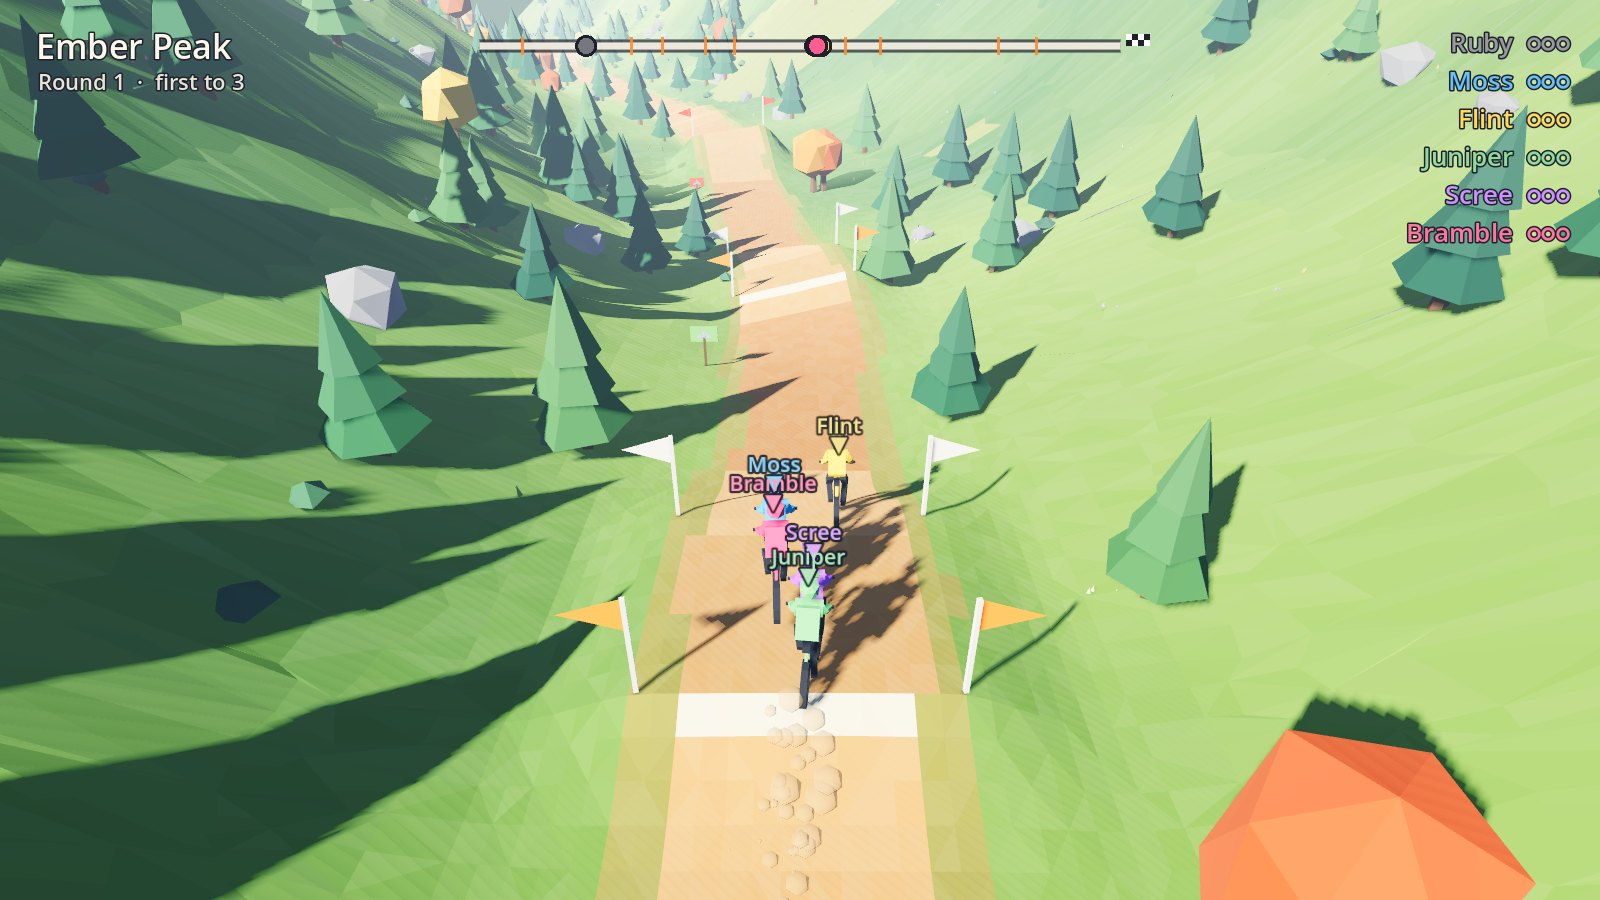
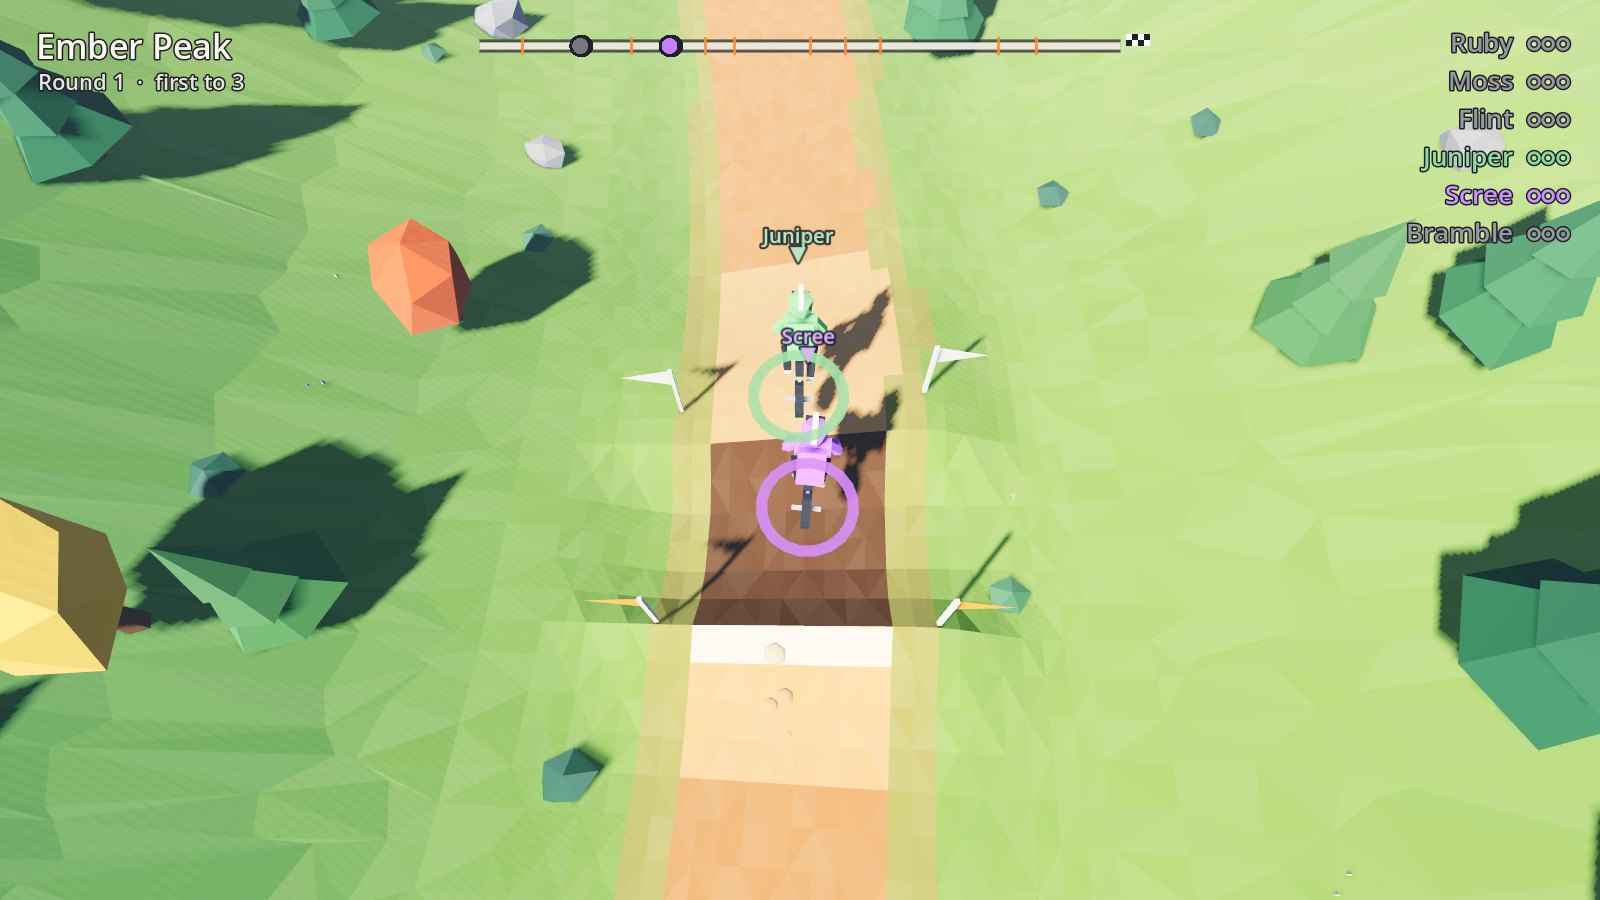
Make Downhill Rush a top-down BMX survival race
The shared camera now looks down from above and sits closer, so the
leader is central and stragglers drop off the bottom sooner. Riders are
BMX bikes with 20-inch wheels, riser bars, pegs and a standing rider,
and each rider has a ring in their colour on the ground that also
marks where they will land.

Claude-Session: https://claude.ai/code/session_01XKbriPGpWUjPCX5T7BApuq

diff --git a/downhill-rush/README.md b/downhill-rush/README.md
@@ -1,14 +1,15 @@
 # Downhill Rush
 
-A couch party game for GameNight: everyone rides the same procedurally
-generated mountain on one shared screen. The camera follows the leader and
-never waits. Fall behind, crash once too often or take the scenic route and
+A top-down BMX downhill survival race for GameNight: everyone rides the same
+procedurally generated mountain on one shared screen, seen from above. The
+camera follows the leader and never waits. Fall behind, crash once too often or take the scenic route and
 you drop off the bottom of the screen: you're out. Last rider standing, or
 first through the finish gate, takes the round. First to three rounds wins.
 
 Godot 4.5, GL Compatibility renderer, 1 to 8 riders. Everything is built from
 code at runtime: low-poly flat-shaded terrain, trees, rocks and riders, with
-no textures or imported models.
+no textures or imported models. Each rider has a ring in their colour on the
+ground under them, which also shows where they will land mid-jump.
 
 ![Racing down Ember Peak](docs/screenshots/race.jpg)
 
